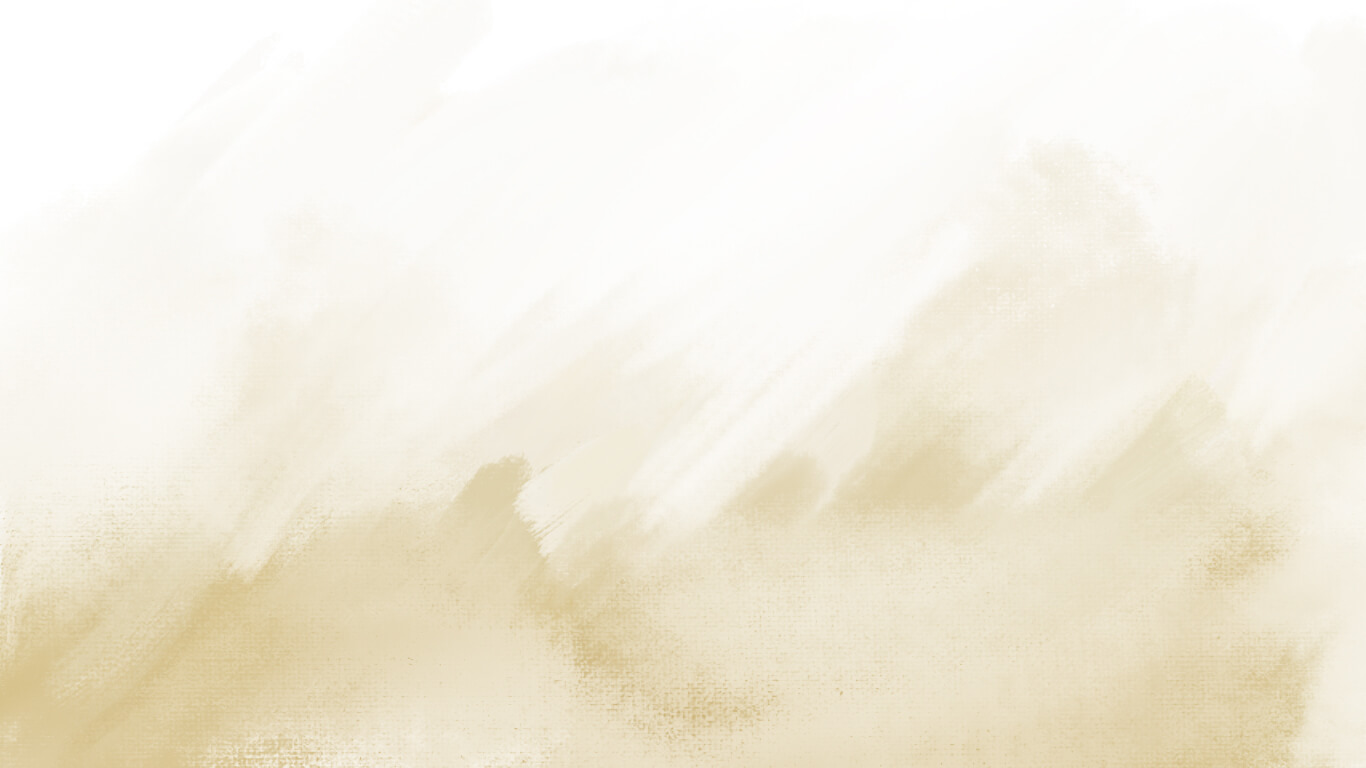
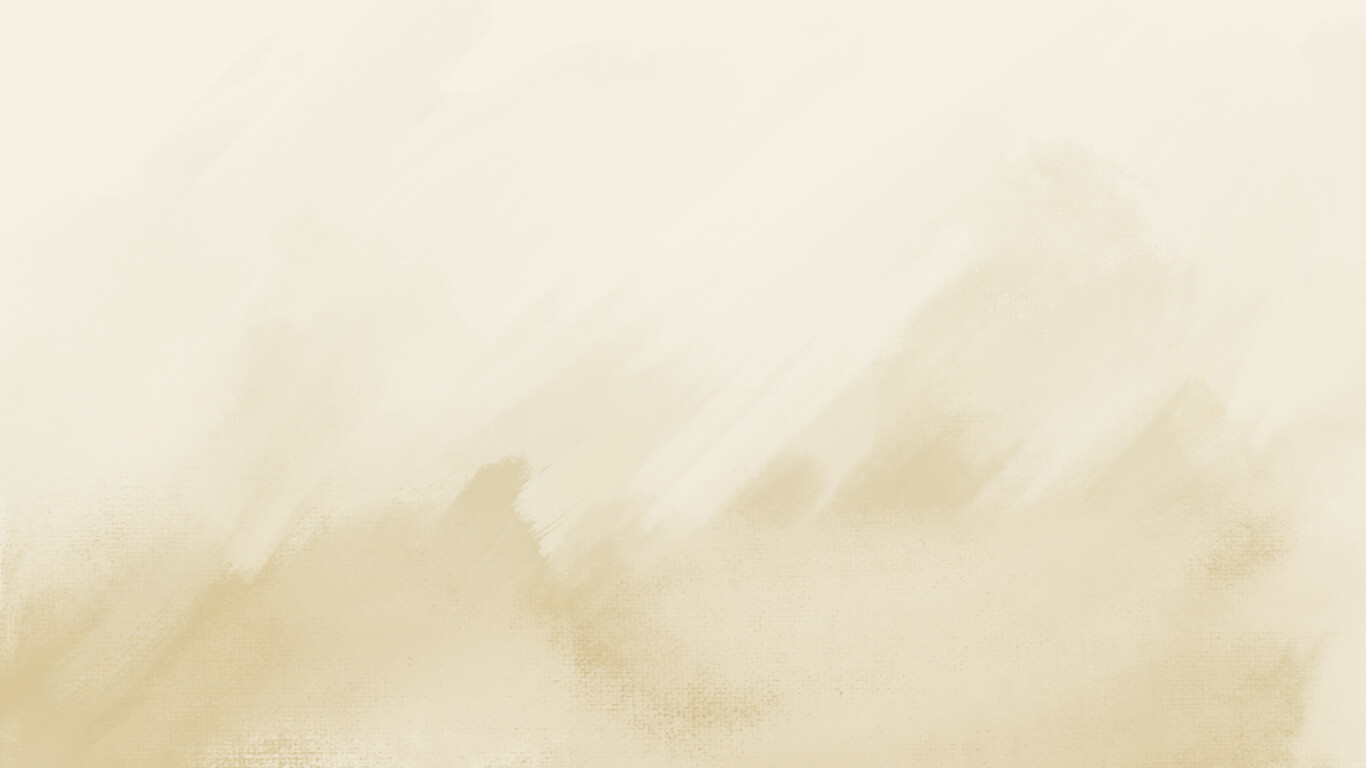
Update bg image. Fix Home H2 className

diff --git a/styles/_base.scss b/styles/_base.scss
@@ -27,8 +27,6 @@ body {
     background-position: center top;
     background-size: 100% auto;
     transform: rotate(180deg);
-    opacity: 0.75;
-    background-blend-mode: multiply;
     
     @media screen and (max-width: $break-mobilenav){
       top: 56px;
@@ -39,24 +37,11 @@ body {
 main {
   position: relative;
   z-index: 0;
+  background-image: url("/bkgd-goldwash.jpg");
+  background-repeat: no-repeat;
+  background-position: center bottom;
+  background-size: 100% auto;
   padding: 1px 0;
-
-  &::after {
-    content: "";
-    display: block;
-    position: absolute;
-    z-index: -1;
-    left: 0;
-    right: 0;
-    bottom: 0;
-    padding-top: 56.25%;
-    background-image: url("/bkgd-goldwash.jpg");
-    background-repeat: no-repeat;
-    background-position: center bottom;
-    background-size: 100% auto;
-    opacity: 0.75;
-    background-blend-mode: multiply;
-  }
 }
 
 * {

diff --git a/pages/impact-reports/onward/index.js b/pages/impact-reports/onward/index.js
@@ -91,7 +91,7 @@ export default function Home({ storyData }) {
               <span className="visually-hidden">Onward</span>
               <img src="/home-banner-onward.png" alt="Onward" width="1255" height="516" />
             </h1>
-            <h2 class="body-text-lg">
+            <h2 className="body-text-lg">
               Giving is a force for good, especially when the world feels anything but. Thanks to the incredible generosity of ordinary people on every front and the resilience of those who face adversity, we are inspired by stories like the ones below. We believe you will be, too. With hope, determination and support, we believe brighter days lie ahead no matter the challenge. 
             </h2>
             <img className="home-title-hrimg" src="/divider-shapes.png" width="199" height="60" alt="divider graphic" />
